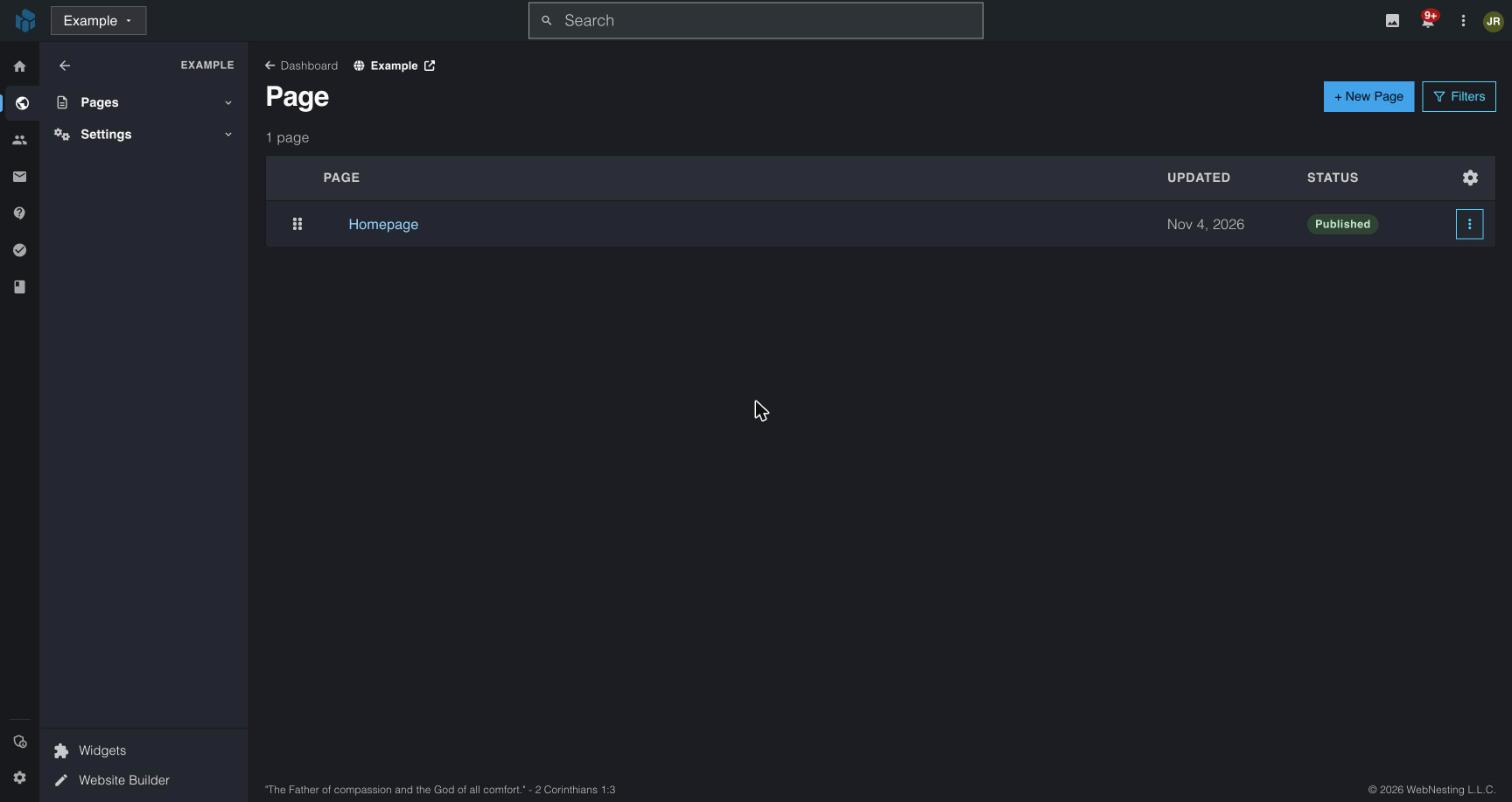
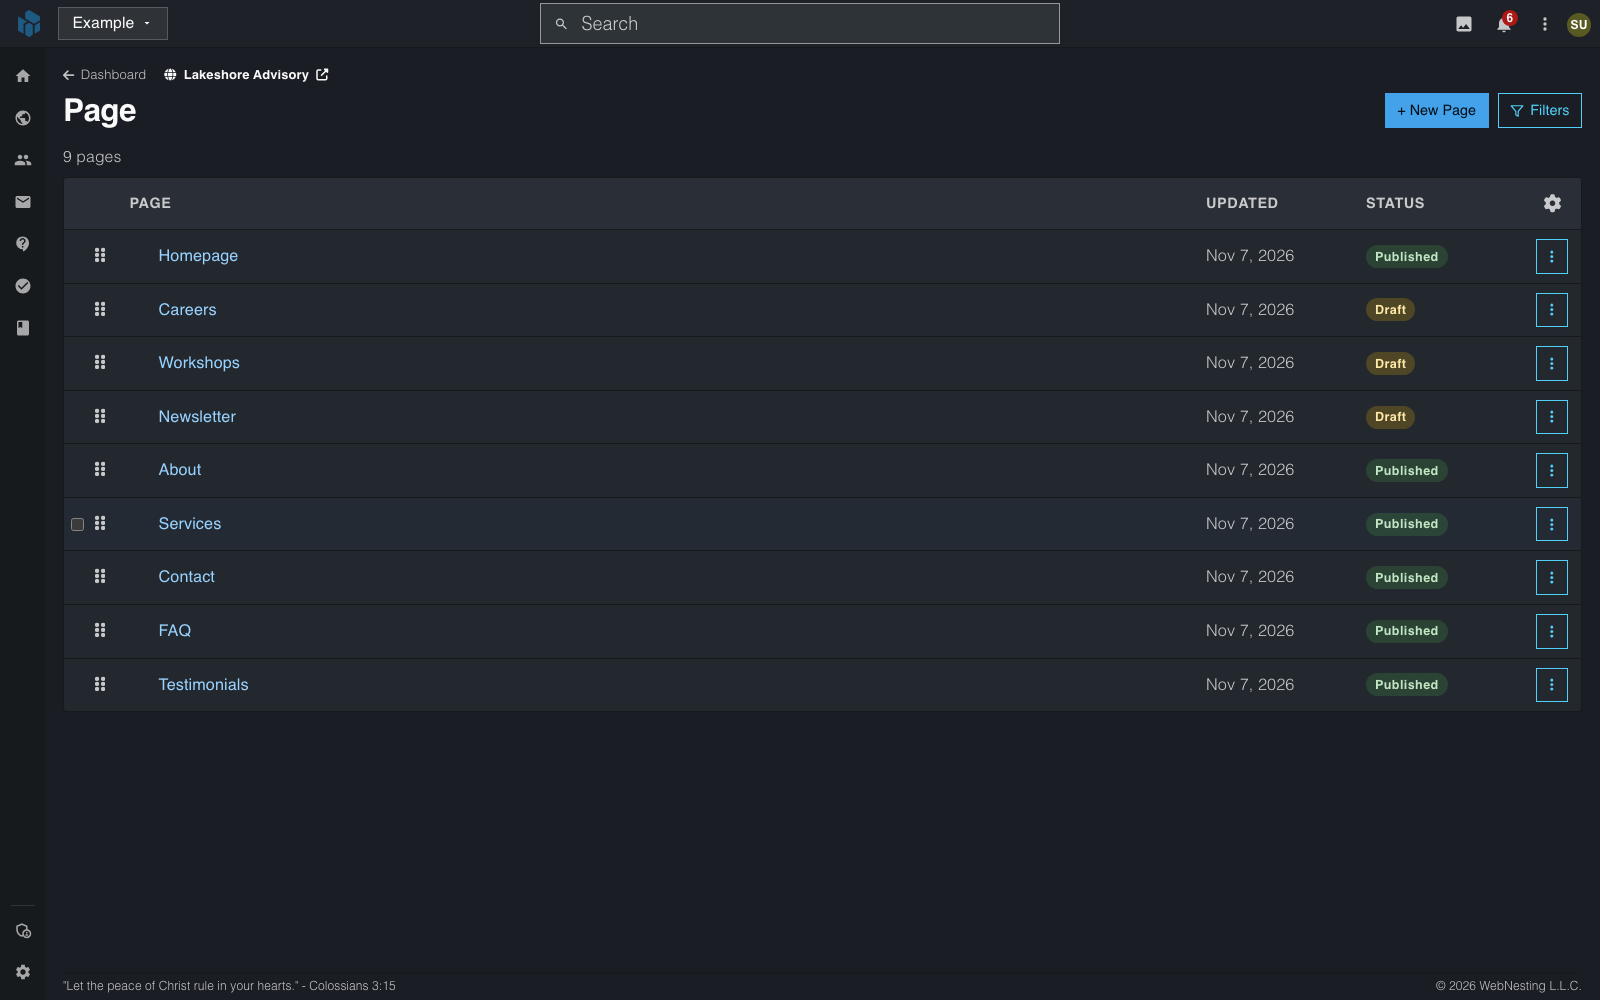
docs(dashboard): refresh managing-pages and media-library, retake and add pictures
Retook the page list and file manager pictures. Added pictures for the site menu,
row menu, page settings, custom code and filters, and for the file details and
file actions panels. Added page settings groups, filter and search wording.

diff --git a/dashboard/managing-pages.md b/dashboard/managing-pages.md
@@ -1,6 +1,6 @@
 # Managing Pages
 
-**Last verified:** 2026-11-04 6:35pm
+**Last verified:** 2026-11-07 10:27am
 
 Pages are the foundation of your website. Each page on your site has its own web address (URL) and contains the content your visitors see. This guide walks you through everything you need to know about creating, organizing, and managing your pages in WebNesting.
 
@@ -14,7 +14,9 @@ When you log in to your WebNesting dashboard, you can see all of your pages in o
 2. In the site menu, open **Pages**, then select **Pages**.
 3. You will see a list of all your pages with their titles and current status.
 
-![The pages list in the dashboard](../images/dashboard/pages-list.png)
+![The site menu open on Pages, with the Pages item ringed](../images/dashboard/managing-pages-site-menu.png)
+
+![The Pages list with each page's last update and its Draft or Published status](../images/dashboard/pages-list.png)
 
 Each page in the list shows:
 
@@ -22,7 +24,9 @@ Each page in the list shows:
 - **Updated** -- When the page was last changed.
 - **Status** -- **Draft** or **Published**.
 
-Each row also has a ⋮ menu with **Edit**, **Duplicate**, **Publish** or **Unpublish**, and **Delete**. When your site has more than one language, the menu also has **Translate into…**, and the list has a **Language** column.
+Each row also has a ⋮ menu with **Edit**, **Duplicate**, **Publish** or **Unpublish**, and **Delete**. When your site has more than one language, the menu also has **Translate into…**, and the list has a **Language** column. The gear at the end of the header row lets you choose which columns show.
+
+![A page's ⋮ menu open, with Publish ringed](../images/dashboard/managing-pages-row-menu.png)
 
 > **Tip:** If you have many pages, use the **Search** bar at the very top of the dashboard to find the one you need.
 
@@ -57,7 +61,11 @@ You can update any page's basic information at any time.
 4. Update the title, **Page URI**, layout, menu settings, search settings, or any other settings.
 5. Click **Save** to keep your changes as a draft, or **Save & Publish** to put them on your live site.
 
-To edit the actual content of the page (text, images, sections), you will use the Website Builder. Click **Open in Builder** at the top of the page settings, or see the "Opening a Page in the Website Builder" section below.
+![The page settings for the About page, with the Page URI field ringed](../images/dashboard/managing-pages-page-settings.png)
+
+The settings are in groups: **Page Settings**, **Navigation**, **Advanced** and **SEO**. Under **Navigation**, **Menu Description** is one short line, up to 80 characters, that shows under the page's name in drop-down and mega menus. Under **Advanced**, **Page Icon** is the small picture shown with it. **Lock Page** set to **Site Admin** shows the page only to people who can edit your site.
+
+To edit the actual content of the page (text, images, sections), you will use the Website Builder. Click **Open in Builder** at the top of the page settings, or see the "Opening a Page in the Website Builder" section below. The **Content** tab next to the **Page** tab holds the builder inside the page settings, so you can change the content without leaving.
 
 ### Custom Code for One Page
 
@@ -67,9 +75,13 @@ A page can hold code that should run on that page only, such as a booking widget
 2. Click the page name to open it.
 3. Scroll to the **Custom Code** group, after **SEO**.
 4. Click **Edit Custom Code**. The code opens in a window.
+
+![The Custom Code group with Edit Custom Code ringed](../images/dashboard/managing-pages-custom-code-group.png)
 5. Paste the code into **Top of this page** or **Bottom of this page**. Verification tags and analytics go at the top. Chat and booking widgets go at the bottom.
 6. Optional: click **Preview with Code** to see the page run the code in a safe preview.
 7. Click **Publish**.
+
+![The Custom Code window with a Top of this page and a Bottom of this page editor, History links, Preview with Code and Publish](../images/dashboard/managing-pages-custom-code-window.png)
 
 The code has no draft: **Publish** puts it on your live site at once. The window stays open and each place shows when it was published. The group's lines change to the new code. Publishing the code doesn't publish the page, and the page's **Save & Publish** doesn't publish the code.
 
@@ -184,6 +196,10 @@ Type a word from the page title into the **Search** bar at the very top of the d
 1. In the **Pages** list, click **Filters** at the top right.
 2. Next to **Status**, choose **Published**, **Draft** or **Trashed**.
 3. The list updates as you pick. Click **Clear** to see every page again.
+
+![The Filters panel with the Status choices Any status, Published, Draft and Trashed](../images/dashboard/managing-pages-filters.png)
+
+The **View** choice under **Status** narrows the list to the pages in one menu, such as **Header menu** or **Footer menu**.
 
 ---
 

diff --git a/dashboard/media-library.md b/dashboard/media-library.md
@@ -1,6 +1,6 @@
 # Files (File Manager)
 
-**Last verified:** 2026-11-03 4:41pm
+**Last verified:** 2026-11-07 10:27am
 
 The File Manager is where every file in your workspace lives — images, videos, documents, helpdesk email attachments, and files visitors upload through your forms. Think of it as your workspace's file cabinet: one place, organized in folders, just like the files on your computer.
 
@@ -19,7 +19,9 @@ There are two ways to open the File Manager:
 
 Both show the same files and folders.
 
-![The File Manager showing uploaded images with search, upload, and external media options](../images/dashboard/media-manager.png)
+![The File Manager showing a grid of pictures, with search, a file type filter, sorting, and the storage total on the right](../images/dashboard/media-manager.png)
+
+Above your files, **Search files…** finds a file by name. The first list narrows the view to one kind of file: **Images**, **Missing Alt Text**, **Videos**, **Documents**, **Audio**, **Archives** or **Animations**. The second list sorts by **Date**, **Name**, **Size** or **Type**, and the two buttons after it switch between a grid and a list. When no file is selected, the panel on the right shows how many files you have and how much storage they use.
 
 ---
 
@@ -41,7 +43,7 @@ Managed folders can't be renamed or deleted (files land in them automatically), 
 
 1. Open **Files** from the top bar.
 2. Navigate to the folder you want the files in (or stay at Root).
-3. Click **Upload files** and choose one or more files — or simply drag files from your computer into the window.
+3. Click **Upload** at the bottom left and choose one or more files. You can also drag files from your computer into the window.
 4. Watch the progress bar; your files appear as soon as they finish.
 
 Each file can be up to 100 MB. A larger file is stopped before it uploads, and a message says "That file is larger than 100 MB."
@@ -76,6 +78,8 @@ When you select more than one file, a bar appears above the grid with **Move to 
 
 Click any file to open its detail panel, showing:
 
+![A picture selected in the File Manager, with its Title, Alt Text, decorative option and the crop point in the panel on the right](../images/dashboard/media-library-file-details.png)
+
 - A preview of the file.
 - Editable **Title**, **Alt Text**, and **Description**. **Alt Text** is what a screen reader says about a picture; **Description** shows with the picture on your site, as its caption.
 - For a picture, **This image is decorative (no alt text needed)**. Tick it for a picture that only adds looks, such as a texture or a divider. Screen readers then skip it on every page. Alt text you already wrote is kept but not used while it is ticked, and typing new alt text unticks it.
@@ -85,6 +89,10 @@ Click any file to open its detail panel, showing:
 - Where the file came from — for example "Email attachment (Helpdesk)" or "Form upload".
 - Its virus-scan status.
 - **Referenced by** — the helpdesk tickets or form submissions this file is attached to, with links to jump straight there.
+
+At the bottom of the panel are four buttons: **Open** shows the file in a new tab, **Move** picks another folder, **Public** or **Private** switches who can see it, and **Delete** removes it.
+
+![The bottom of the details panel with Open, Move and Delete, and the Move button ringed](../images/dashboard/media-library-file-actions.png)
 
 > **Tip:** Always add alt text to your images. It makes your site more accessible to people using screen readers, and it can improve your search engine ranking. To find the pictures that still need it, choose **Missing Alt Text** in the file type list above your files. A picture leaves that list when you give it alt text or mark it decorative, and you move on to another file.
 
